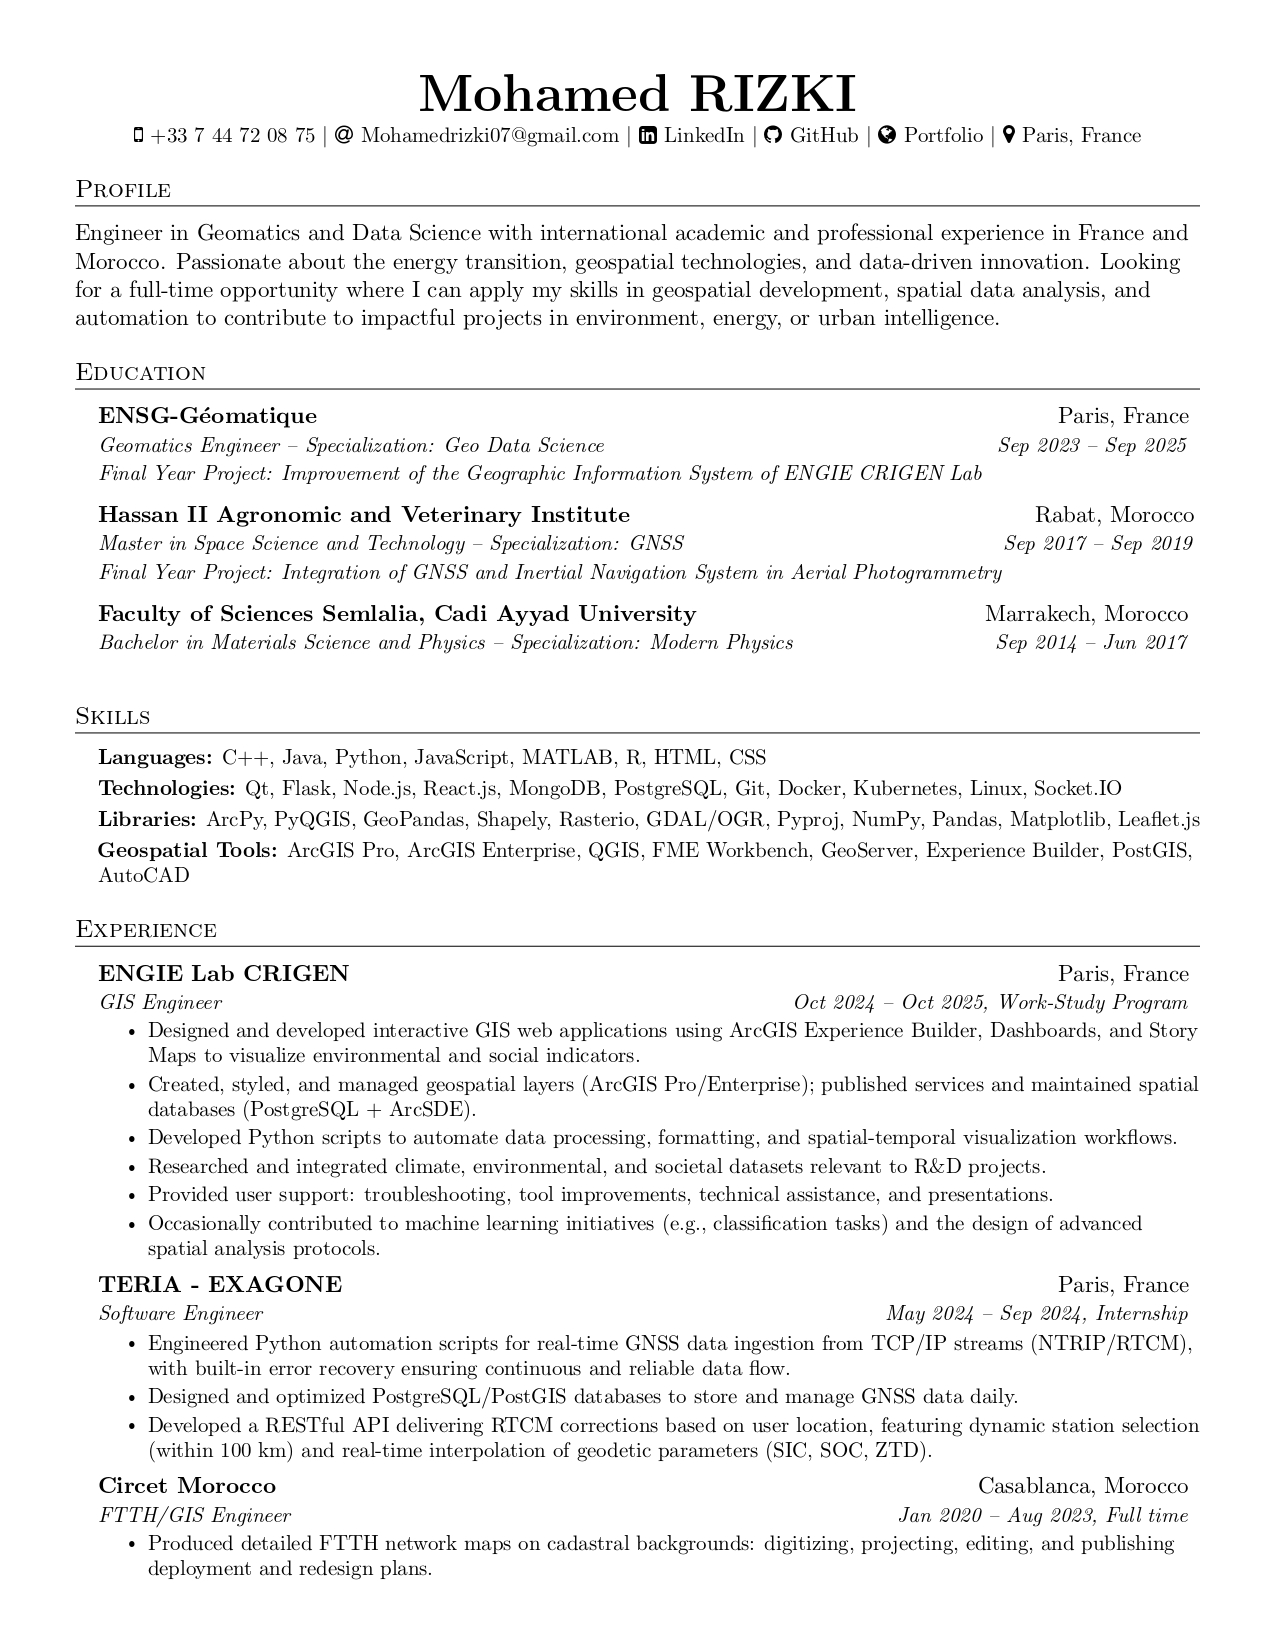
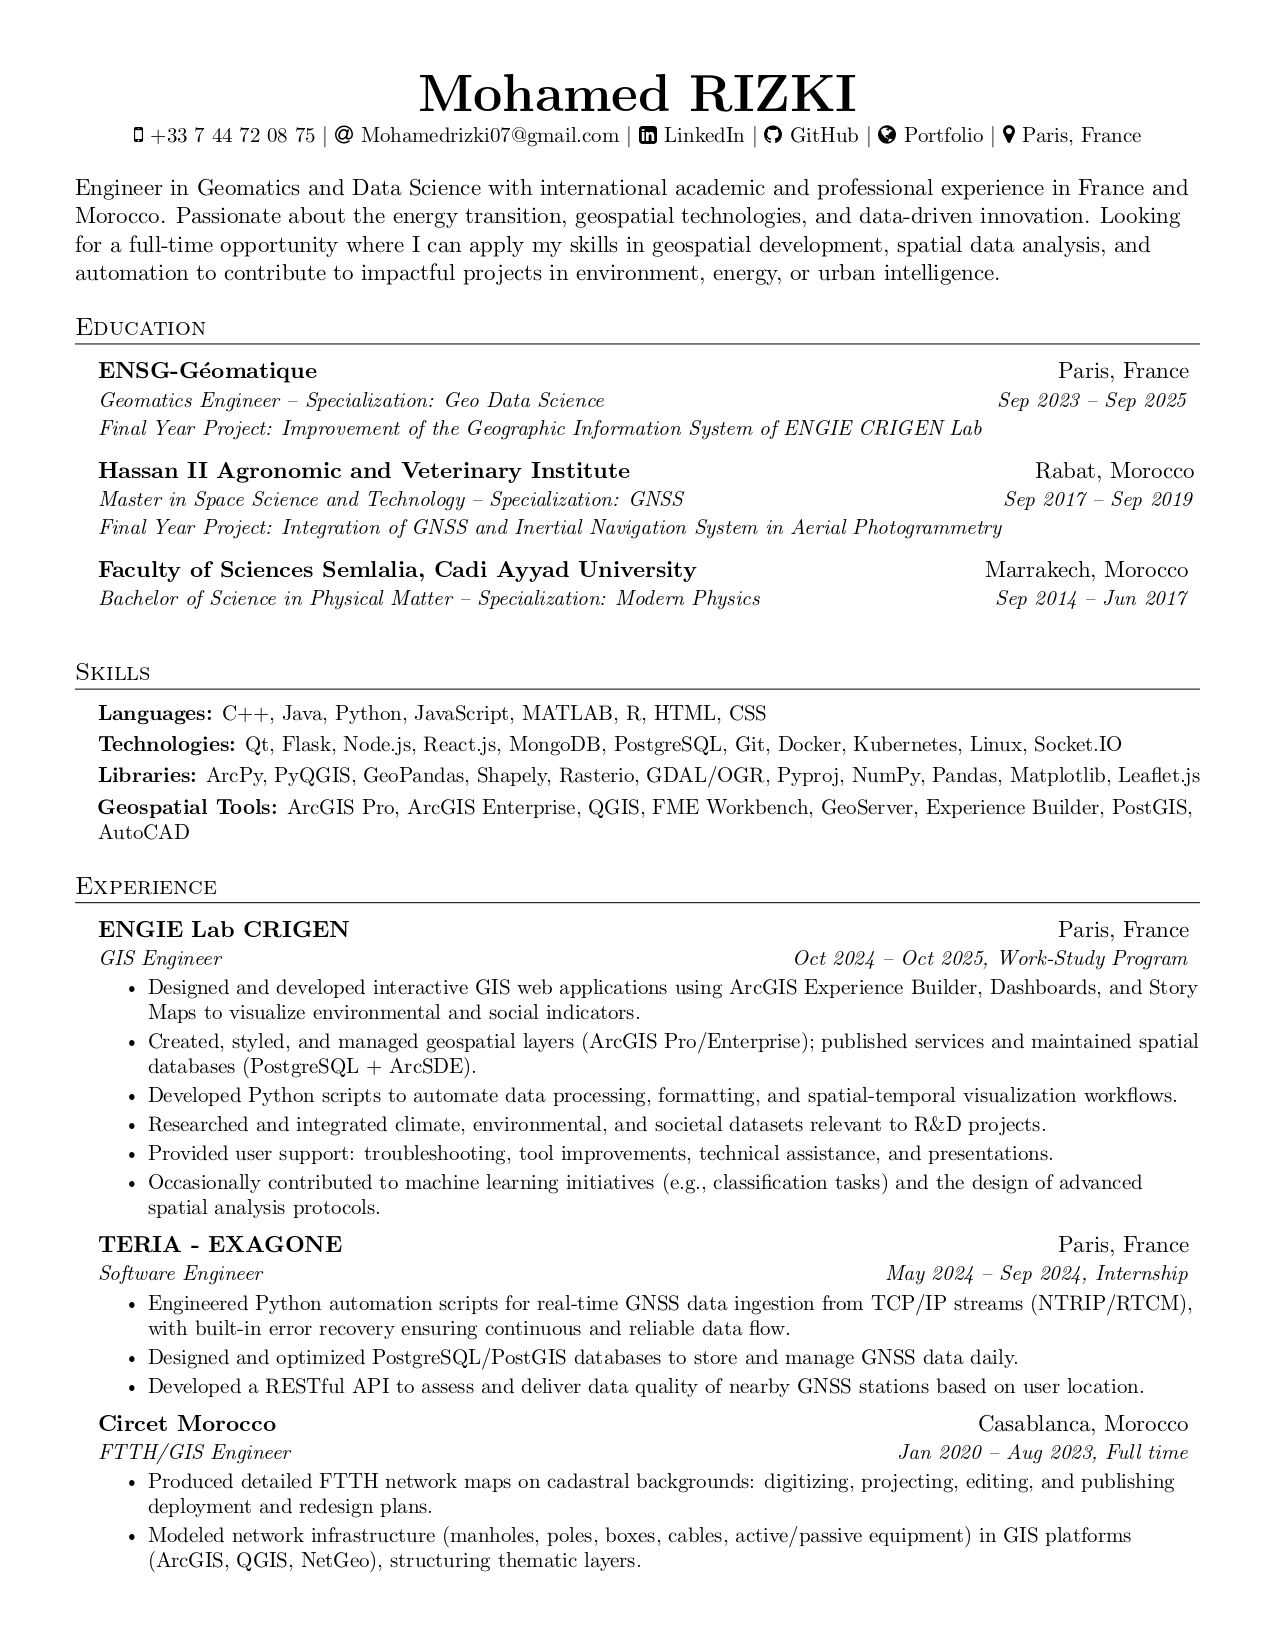
Mise à jour du CV et fichiers associés

diff --git a/main.tex b/main.tex
@@ -149,9 +149,6 @@
 
 %----------- SUMMARY -----------
 
-\section*{Profile}
-\vspace{3pt}
-\noindent
 Engineer in Geomatics and Data Science with international academic and professional experience in France and Morocco. Passionate about the energy transition, geospatial technologies, and data-driven innovation. Looking for a full-time opportunity where I can apply my skills in geospatial development, spatial data analysis, and automation to contribute to impactful projects in environment, energy, or urban intelligence.
 
 %----------- EDUCATION -----------
@@ -172,7 +169,7 @@ Engineer in Geomatics and Data Science with international academic and professio
 
   \resumeEducationHeading
     {Faculty of Sciences Semlalia, Cadi Ayyad University}{Marrakech, Morocco}
-    {Bachelor in Materials Science and Physics – Specialization: Modern Physics}{Sep 2014 -- Jun 2017}
+    {Bachelor of Science in Physical Matter – Specialization: Modern Physics}{Sep 2014 -- Jun 2017}
     {}
 
 \resumeSubHeadingListEnd
@@ -227,7 +224,7 @@ Engineer in Geomatics and Data Science with international academic and professio
     \resumeItemListStart
       \resumeItem{Engineered Python automation scripts for real-time GNSS data ingestion from TCP/IP streams (NTRIP/RTCM), with built-in error recovery ensuring continuous and reliable data flow.}
       \resumeItem{Designed and optimized PostgreSQL/PostGIS databases to store and manage GNSS data daily.}
-      \resumeItem{Developed a RESTful API delivering RTCM corrections based on user location, featuring dynamic station selection (within 100 km) and real-time interpolation of geodetic parameters (SIC, SOC, ZTD).}
+      \resumeItem{Developed a RESTful API to assess and deliver data quality of nearby GNSS stations based on user location.}
     \resumeItemListEnd
 
   \resumeSubheading
@@ -283,7 +280,7 @@ Engineer in Geomatics and Data Science with international academic and professio
   \resumeProjectHeading
     {\textbf{Real-Time GNSS Quality API} $|$ \emph{\href{https://github.com/MohamedRizki/GNSS-Quality-API}{\color{blue}GitHub}}}{}
       \resumeItemListStart
-        \resumeItem{API delivering real-time GNSS station quality indicators to users based on live GNGGA messages.}
+        \resumeItem{API delivering real-time GNSS station quality indicators to users based on live RTCM messages.}
         \resumeItem{Backend scripts processed 24/7 GNSS data via TCP/IP and updated PostGIS with quality metrics.}
         \resumeItem{Used Flask-SocketIO to send updates every second to client apps.}
         \resumeItem{Resulted in a scientific publication in XYZ Journal.}
@@ -300,7 +297,7 @@ Engineer in Geomatics and Data Science with international academic and professio
       \resumeItemListEnd
 
   \resumeProjectHeading
-    {\textbf{Experience Builder – Custom Web Map Layer Widget} $|$ \emph{\href{https://github.com/MohamedRizki/Drop-Down-List-Of-Layers}{\color{blue}GitHub}}}{}
+    {\textbf{Experience Builder – Drop-Down liste of layers Widget} $|$ \emph{\href{https://github.com/MohamedRizki/Drop-Down-List-Of-Layers}{\color{blue}GitHub}}}{}
       \resumeItemListStart
         \resumeItem{Created a widget that dynamically lists and displays Web Map layers in Experience Builder using dropdown.}
         \resumeItem{Ensures layer visibility toggling and auto-zoom based on layer extent.}
@@ -312,7 +309,7 @@ Engineer in Geomatics and Data Science with international academic and professio
       \resumeItemListStart
         \resumeItem{Python script for exporting QGIS layouts as PDFs with control over overlap, layout selection, and exclusions.}
         \resumeItem{Automates layout extent splitting and batch exports based on user parameters.}
-        \resumeItem{Technologies: Python, QGIS API (PyQGIS)}
+        \resumeItem{Technologies: Python, QGIS, PyQGIS}
       \resumeItemListEnd
 
 \resumeSubHeadingListEnd
